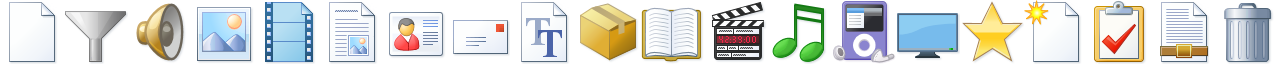
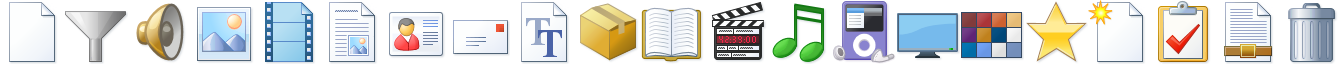
- Full support for LUTs

diff --git a/LFCore/TableAttributes.cpp b/LFCore/TableAttributes.cpp
@@ -119,6 +119,13 @@ extern const LFContextProperties CtxProperties[LFContextCount] = {
 	ADVATTRS_TVSHOWS,
 	(1ull<<LFContextMovies) | REMOVEFROMCONTEXT },
 
+	// LFContextColorTables
+	{ LFAttrRating, TRUE, LFContextSubfolderDefault,
+	MINVIEWS, LFViewList,
+	IDXATTRS_CORE | IDXATTRS_COLORTABLES,
+	ADVATTRS_MINIMAL | (1ull<<LFAttrRating) | (1ull<<LFAttrMediaCollection),
+	0 },
+
 	// LFContextFavorites
 	{ LFAttrRating, TRUE, 0,
 	ALLVIEWS, LFViewList,
@@ -576,21 +583,21 @@ extern const LFTypeProperties TypeProperties[LFTypeCount] = {
 
 
 #define CTX_AUDIO    ((1ull<<LFContextAudio) | (1ull<<LFContextMusic) | (1ull<<LFContextSubfolderMusic))
+#define CTX_PICTURES ((1ull<<LFContextPictures) | (1ull<<LFContextSubfolderPictures))
 #define CTX_PODCASTS ((1ull<<LFContextPodcasts) | (1ull<<LFContextSubfolderPodcasts))
 #define CTX_TVSHOWS  ((1ull<<LFContextTVShows) | (1ull<<LFContextSubfolderTVShows))
+#define CTX_VIDEOS   ((1ull<<LFContextVideos) | (1ull<<LFContextSubfolderVideos))
 
 extern const SpecialAttributeName SpecialAttributeNames[SPECIALATTRIBUTENAMESCOUNT] = {
 	{ LFAttrMediaCollection, IDS_ALBUM, IDI_FLD_PLACEHOLDER_NOTE, FALSE, CTX_AUDIO },
-	{ LFAttrMediaCollection, IDS_ROLL, IDI_FLD_DEFAULT, FALSE,(1ull<<LFContextPictures) | (1ull<<LFContextVideos) },
+	{ LFAttrMediaCollection, IDS_ROLL, IDI_FLD_DEFAULT, FALSE, CTX_PICTURES | CTX_VIDEOS | (1ull<<LFContextColorTables) },
 	{ LFAttrMediaCollection, IDS_PODCAST, IDI_FLD_PLACEHOLDER_PODCAST, FALSE,CTX_PODCASTS },
 	{ LFAttrMediaCollection, IDS_TVSHOW, IDI_FLD_PLACEHOLDER_TV, FALSE, CTX_TVSHOWS },
 	{ LFAttrSequenceInCollection, IDS_EPISODE, 0, TRUE, CTX_PODCASTS },
-	{ LFAttrSequenceInCollection, IDS_EPISODE, 0, FALSE, CTX_TVSHOWS | (1ull<<LFContextVideos) },
+	{ LFAttrSequenceInCollection, IDS_EPISODE, 0, FALSE, CTX_TVSHOWS | CTX_VIDEOS },
 	{ LFAttrSequenceInCollection, IDS_TRACK, 0, FALSE, CTX_AUDIO },
-	{ LFAttrCreator, IDS_ARTIST, IDI_FLD_PLACEHOLDER_CONTACT, FALSE, CTX_AUDIO },
-	{ LFAttrCreator, IDS_ARTIST, IDI_FLD_PLACEHOLDER_CONTACT, FALSE, (1ull<<LFContextPictures) },
-	{ LFAttrCreator, IDS_AUTHOR, IDI_FLD_PLACEHOLDER_CONTACT, FALSE, CTX_PODCASTS | CTX_TVSHOWS | (1ull<<LFContextVideos) | (1ull<<LFContextMovies) },
-	{ LFAttrCreator, IDS_AUTHOR, IDI_FLD_PLACEHOLDER_CONTACT, FALSE, (1ull<<LFContextBooks) | (1ull<<LFContextDocuments) }
+	{ LFAttrCreator, IDS_ARTIST, IDI_FLD_PLACEHOLDER_CONTACT, FALSE, CTX_AUDIO | CTX_PICTURES },
+	{ LFAttrCreator, IDS_AUTHOR, IDI_FLD_PLACEHOLDER_CONTACT, FALSE, CTX_PODCASTS | CTX_TVSHOWS | CTX_VIDEOS | (1ull<<LFContextBooks) | (1ull<<LFContextDocuments) | (1ull<<LFContextColorTables) | (1ull<<LFContextMovies) }
 };
 
 #pragma data_seg()

diff --git a/LFCore/LF.h b/LFCore/LF.h
@@ -268,30 +268,31 @@ struct LFItemCategoryDescriptor
 #define LFContextMusic                   12
 #define LFContextPodcasts                13
 #define LFContextTVShows                 14
+#define LFContextColorTables             15
 
-#define LFContextFavorites               15
-#define LFContextNew                     16
-#define LFContextTasks                   17
-#define LFContextArchive                 18
-#define LFContextTrash                   19
+#define LFContextFavorites               16
+#define LFContextNew                     17
+#define LFContextTasks                   18
+#define LFContextArchive                 19
+#define LFContextTrash                   20
 
-#define LFContextSearch                  20
-#define LFContextStores                  21
-#define LFContextClipboard               22
-#define LFContextSubfolderDefault        23
-#define LFContextSubfolderBooks          24
-#define LFContextSubfolderFonts          25
-#define LFContextSubfolderMessages       26
-#define LFContextSubfolderMovies         27
-#define LFContextSubfolderMusic          28
-#define LFContextSubfolderPictures       29
-#define LFContextSubfolderPodcasts       30
-#define LFContextSubfolderTVShows        31
-#define LFContextSubfolderVideos         32
+#define LFContextSearch                  21
+#define LFContextStores                  22
+#define LFContextClipboard               23
+#define LFContextSubfolderDefault        24
+#define LFContextSubfolderBooks          25
+#define LFContextSubfolderFonts          26
+#define LFContextSubfolderMessages       27
+#define LFContextSubfolderMovies         28
+#define LFContextSubfolderMusic          29
+#define LFContextSubfolderPictures       30
+#define LFContextSubfolderPodcasts       31
+#define LFContextSubfolderTVShows        32
+#define LFContextSubfolderVideos         33
 
-#define LFLastPersistentContext          14
-#define LFLastQueryContext               19
-#define LFContextCount                   33
+#define LFLastPersistentContext          15
+#define LFLastQueryContext               20
+#define LFContextCount                   34
 
 #define LFContextAuto                    0xFF	// Internal use only
 #define LFContextRemove                  LFContextAllFiles

diff --git a/LFCore/TableContexts.cpp b/LFCore/TableContexts.cpp
@@ -7,6 +7,7 @@
 #pragma data_seg(".shared")
 
 extern const RegisteredFileFormat ContextRegistry[FILEFORMATCOUNT] = {
+	{ "3dl",     LFContextColorTables, 0 },
 	{ "8svx",    LFContextAudio, 0 },
 	{ "aa",      LFContextAudio, 0 },
 	{ "aac",     LFContextAudio, 0 },
@@ -46,6 +47,7 @@ extern const RegisteredFileFormat ContextRegistry[FILEFORMATCOUNT] = {
 	{ "cs",      LFContextDocuments, 0 },
 	{ "css",     LFContextDocuments, 0 },
 	{ "csv",     LFContextDocuments, 0 },
+	{ "cube",    LFContextColorTables, 0 },
 	{ "cur",     LFContextPictures, 0 },
 	{ "dct",     LFContextAudio, 0 },
 	{ "dib",     LFContextPictures, 0 },
@@ -99,6 +101,7 @@ extern const RegisteredFileFormat ContextRegistry[FILEFORMATCOUNT] = {
 	{ "iba",     LFContextDocuments, LFContextBooks },
 	{ "ibook",   LFContextDocuments, LFContextBooks },
 	{ "ibooks",  LFContextDocuments, LFContextBooks },
+	{ "icc",     LFContextColorTables, 0 },
 	{ "icl",     LFContextPictures, 0 },
 	{ "ico",     LFContextPictures, 0 },
 	{ "iff",     LFContextAudio, 0 },
@@ -124,7 +127,7 @@ extern const RegisteredFileFormat ContextRegistry[FILEFORMATCOUNT] = {
 	{ "lib",     LFContextApps, 0 },
 	{ "lit",     LFContextDocuments, LFContextBooks },
 	{ "log",     LFContextDocuments, 0 },
-	{ "look",    LFContextApps, 0 },
+	{ "look",    LFContextColorTables, 0 },
 	{ "m1v",     LFContextVideos, 0 },
 	{ "m2a",     LFContextAudio, 0 },
 	{ "m2v",     LFContextVideos, 0 },
@@ -174,6 +177,7 @@ extern const RegisteredFileFormat ContextRegistry[FILEFORMATCOUNT] = {
 	{ "oxps",    LFContextDocuments, 0 },
 	{ "p",       LFContextDocuments, 0 },
 	{ "pages",   LFContextDocuments, 0 },
+	{ "pal",     LFContextColorTables, 0 },
 	{ "pas",     LFContextDocuments, 0 },
 	{ "pcd",     LFContextPictures, 0 },
 	{ "pcx",     LFContextPictures, 0 },
@@ -282,7 +286,8 @@ extern const BYTE ContextSlaves[LFLastPersistentContext+1] = {
 	IDXTABLE_VIDEOS,		// LFContextMovies
 	IDXTABLE_AUDIO,			// LFContextMusic
 	IDXTABLE_MASTER,		// LFContextPodcasts
-	IDXTABLE_VIDEOS			// LFContextTVShows
+	IDXTABLE_VIDEOS,		// LFContextTVShows
+	IDXTABLE_DOCUMENTS		// LFContextColorTables
 };
 
 #pragma data_seg()

diff --git a/LFCore/resource.h b/LFCore/resource.h
@@ -172,24 +172,25 @@
 #define IDS_CONTEXT_MUSIC               1412
 #define IDS_CONTEXT_PODCASTS            1413
 #define IDS_CONTEXT_TVSHOWS             1414
-#define IDS_CONTEXT_FAVORITES           1415
-#define IDS_CONTEXT_NEW                 1416
-#define IDS_CONTEXT_TASKS               1417
-#define IDS_CONTEXT_ARCHIVE             1418
-#define IDS_CONTEXT_TRASH               1419
-#define IDS_CONTEXT_SEARCH              1420
-#define IDS_CONTEXT_STORES              1421
-#define IDS_CONTEXT_CLIPBOARD           1422
-#define IDS_CONTEXT_SUBFOLDER_DEFAULT   1423
-#define IDS_CONTEXT_SUBFOLDER_BOOKS     1424
-#define IDS_CONTEXT_SUBFOLDER_FONTS     1425
-#define IDS_CONTEXT_SUBFOLDER_MESSAGES  1426
-#define IDS_CONTEXT_SUBFOLDER_MOVIES    1427
-#define IDS_CONTEXT_SUBFOLDER_MUSIC     1428
-#define IDS_CONTEXT_SUBFOLDER_PICTURES  1429
-#define IDS_CONTEXT_SUBFOLDER_PODCASTS  1430
-#define IDS_CONTEXT_SUBFOLDER_TVSHOWS   1431
-#define IDS_CONTEXT_SUBFOLDER_VIDEOS    1432
+#define IDS_CONTEXT_COLORTABLES         1415
+#define IDS_CONTEXT_FAVORITES           1416
+#define IDS_CONTEXT_NEW                 1417
+#define IDS_CONTEXT_TASKS               1418
+#define IDS_CONTEXT_ARCHIVE             1419
+#define IDS_CONTEXT_TRASH               1420
+#define IDS_CONTEXT_SEARCH              1421
+#define IDS_CONTEXT_STORES              1422
+#define IDS_CONTEXT_CLIPBOARD           1423
+#define IDS_CONTEXT_SUBFOLDER_DEFAULT   1424
+#define IDS_CONTEXT_SUBFOLDER_BOOKS     1425
+#define IDS_CONTEXT_SUBFOLDER_FONTS     1426
+#define IDS_CONTEXT_SUBFOLDER_MESSAGES  1427
+#define IDS_CONTEXT_SUBFOLDER_MOVIES    1428
+#define IDS_CONTEXT_SUBFOLDER_MUSIC     1429
+#define IDS_CONTEXT_SUBFOLDER_PICTURES  1430
+#define IDS_CONTEXT_SUBFOLDER_PODCASTS  1431
+#define IDS_CONTEXT_SUBFOLDER_TVSHOWS   1432
+#define IDS_CONTEXT_SUBFOLDER_VIDEOS    1433
 #define IDS_ERR_FIRST                   1500
 #define IDS_ERR_OK                      1500
 #define IDS_ERR_CANCEL                  1501

diff --git a/LFCore/TableIndexes.h b/LFCore/TableIndexes.h
@@ -8,7 +8,7 @@
 #define IDXTABLE_MASTER     0
 #define IDXTABLECOUNT       6
 
-#define CURIDXVERSION       5
+#define CURIDXVERSION       6
 
 
 // Core attributes
@@ -37,12 +37,14 @@
 
 #define IDXTABLE_DOCUMENTS     1
 
-#define IDXATTRS_BOOKS         ((1ull<<LFAttrCreator) | (1ull<<LFAttrTitle) | (1ull<<LFAttrReleased) | \
-								(1ull<<LFAttrLanguage) | (1ull<<LFAttrCopyright) | (1ull<<LFAttrISBN) | \
-								(1ull<<LFAttrPages) | (1ull<<LFAttrSignature))
+#define IDXATTRS_BOOKS         ((1ull<<LFAttrCreator) | (1ull<<LFAttrMediaCollection) | (1ull<<LFAttrTitle) | \
+								(1ull<<LFAttrReleased) | (1ull<<LFAttrLanguage) | (1ull<<LFAttrCopyright) | \
+								(1ull<<LFAttrISBN) | (1ull<<LFAttrPages) | (1ull<<LFAttrSignature))
 #define IDXATTRS_DOCUMENTS     ((1ull<<LFAttrCreator) | (1ull<<LFAttrTitle) | (1ull<<LFAttrLanguage) | \
 								(1ull<<LFAttrCopyright) | (1ull<<LFAttrPages) | (1ull<<LFAttrResponsible) | \
 								(1ull<<LFAttrCustomer))
+#define IDXATTRS_COLORTABLES   ((1ull<<LFAttrCreator) | (1ull<<LFAttrMediaCollection) | (1ull<<LFAttrTitle) | \
+								(1ull<<LFAttrCopyright) | (1ull<<LFAttrResponsible) | (1ull<<LFAttrCustomer))
 
 #define ADVATTRS_BOOKS         (ADVATTRS_MEDIA & (IDXATTRS_CORE | IDXATTRS_BOOKS))
 #define ADVATTRS_DOCUMENTS     ((ADVATTRS_OWNMEDIA & (IDXATTRS_CORE | IDXATTRS_DOCUMENTS)) | \
@@ -61,6 +63,7 @@ struct DocumentAttributes
 	CHAR Language[3];
 	WCHAR Customer[256];
 	UINT PublishedYear;
+	WCHAR MediaCollection[256];
 };
 
 

diff --git a/liquidFOLDERS/CMainWnd.cpp b/liquidFOLDERS/CMainWnd.cpp
@@ -15,7 +15,7 @@ CIcons CMainWnd::m_SmallIcons;
 const UINT CMainWnd::m_ContextOrder[LFLastQueryContext+1] = {
 	LFContextAllFiles, LFContextFavorites,
 	LFContextAudio, LFContextBooks, LFContextMovies, LFContextMusic, LFContextPictures, LFContextPodcasts, LFContextTVShows, LFContextVideos,
-	LFContextDocuments, LFContextFonts, LFContextContacts, LFContextMessages, LFContextApps,
+	LFContextDocuments, LFContextContacts, LFContextMessages, LFContextApps, LFContextFonts, LFContextColorTables,
 	LFContextNew, LFContextTasks, LFContextArchive, LFContextTrash,
 	LFContextFilters
 };

diff --git a/LFCore/TableIndexes.cpp b/LFCore/TableIndexes.cpp
@@ -37,7 +37,8 @@ const IdxTableEntry DocumentAttributeEntries[] = {
 	{ LFAttrPages, offsetof(DocumentAttributes, Pages) },
 	{ LFAttrLanguage, offsetof(DocumentAttributes, Language) },
 	{ LFAttrCustomer, offsetof(DocumentAttributes, Customer) },
-	{ LFAttrReleased, offsetof(DocumentAttributes, PublishedYear) }
+	{ LFAttrReleased, offsetof(DocumentAttributes, PublishedYear) },
+	{ LFAttrMediaCollection, offsetof(DocumentAttributes, MediaCollection) }
 };
 
 const IdxTableEntry MessageAttributeEntries[] = {

diff --git a/liquidFOLDERS/CFileView.h b/liquidFOLDERS/CFileView.h
@@ -9,7 +9,7 @@
 
 // View parameters
 
-#define VIEWSETTINGSVERSION     7
+#define VIEWSETTINGSVERSION     8
 
 struct LFContextViewSettings
 {

diff --git a/LFCore/TableContexts.h b/LFCore/TableContexts.h
@@ -3,7 +3,7 @@
 #include "LF.h"
 
 
-#define FILEFORMATCOUNT     258
+#define FILEFORMATCOUNT     262
 
 
 #pragma pack(push,1)
